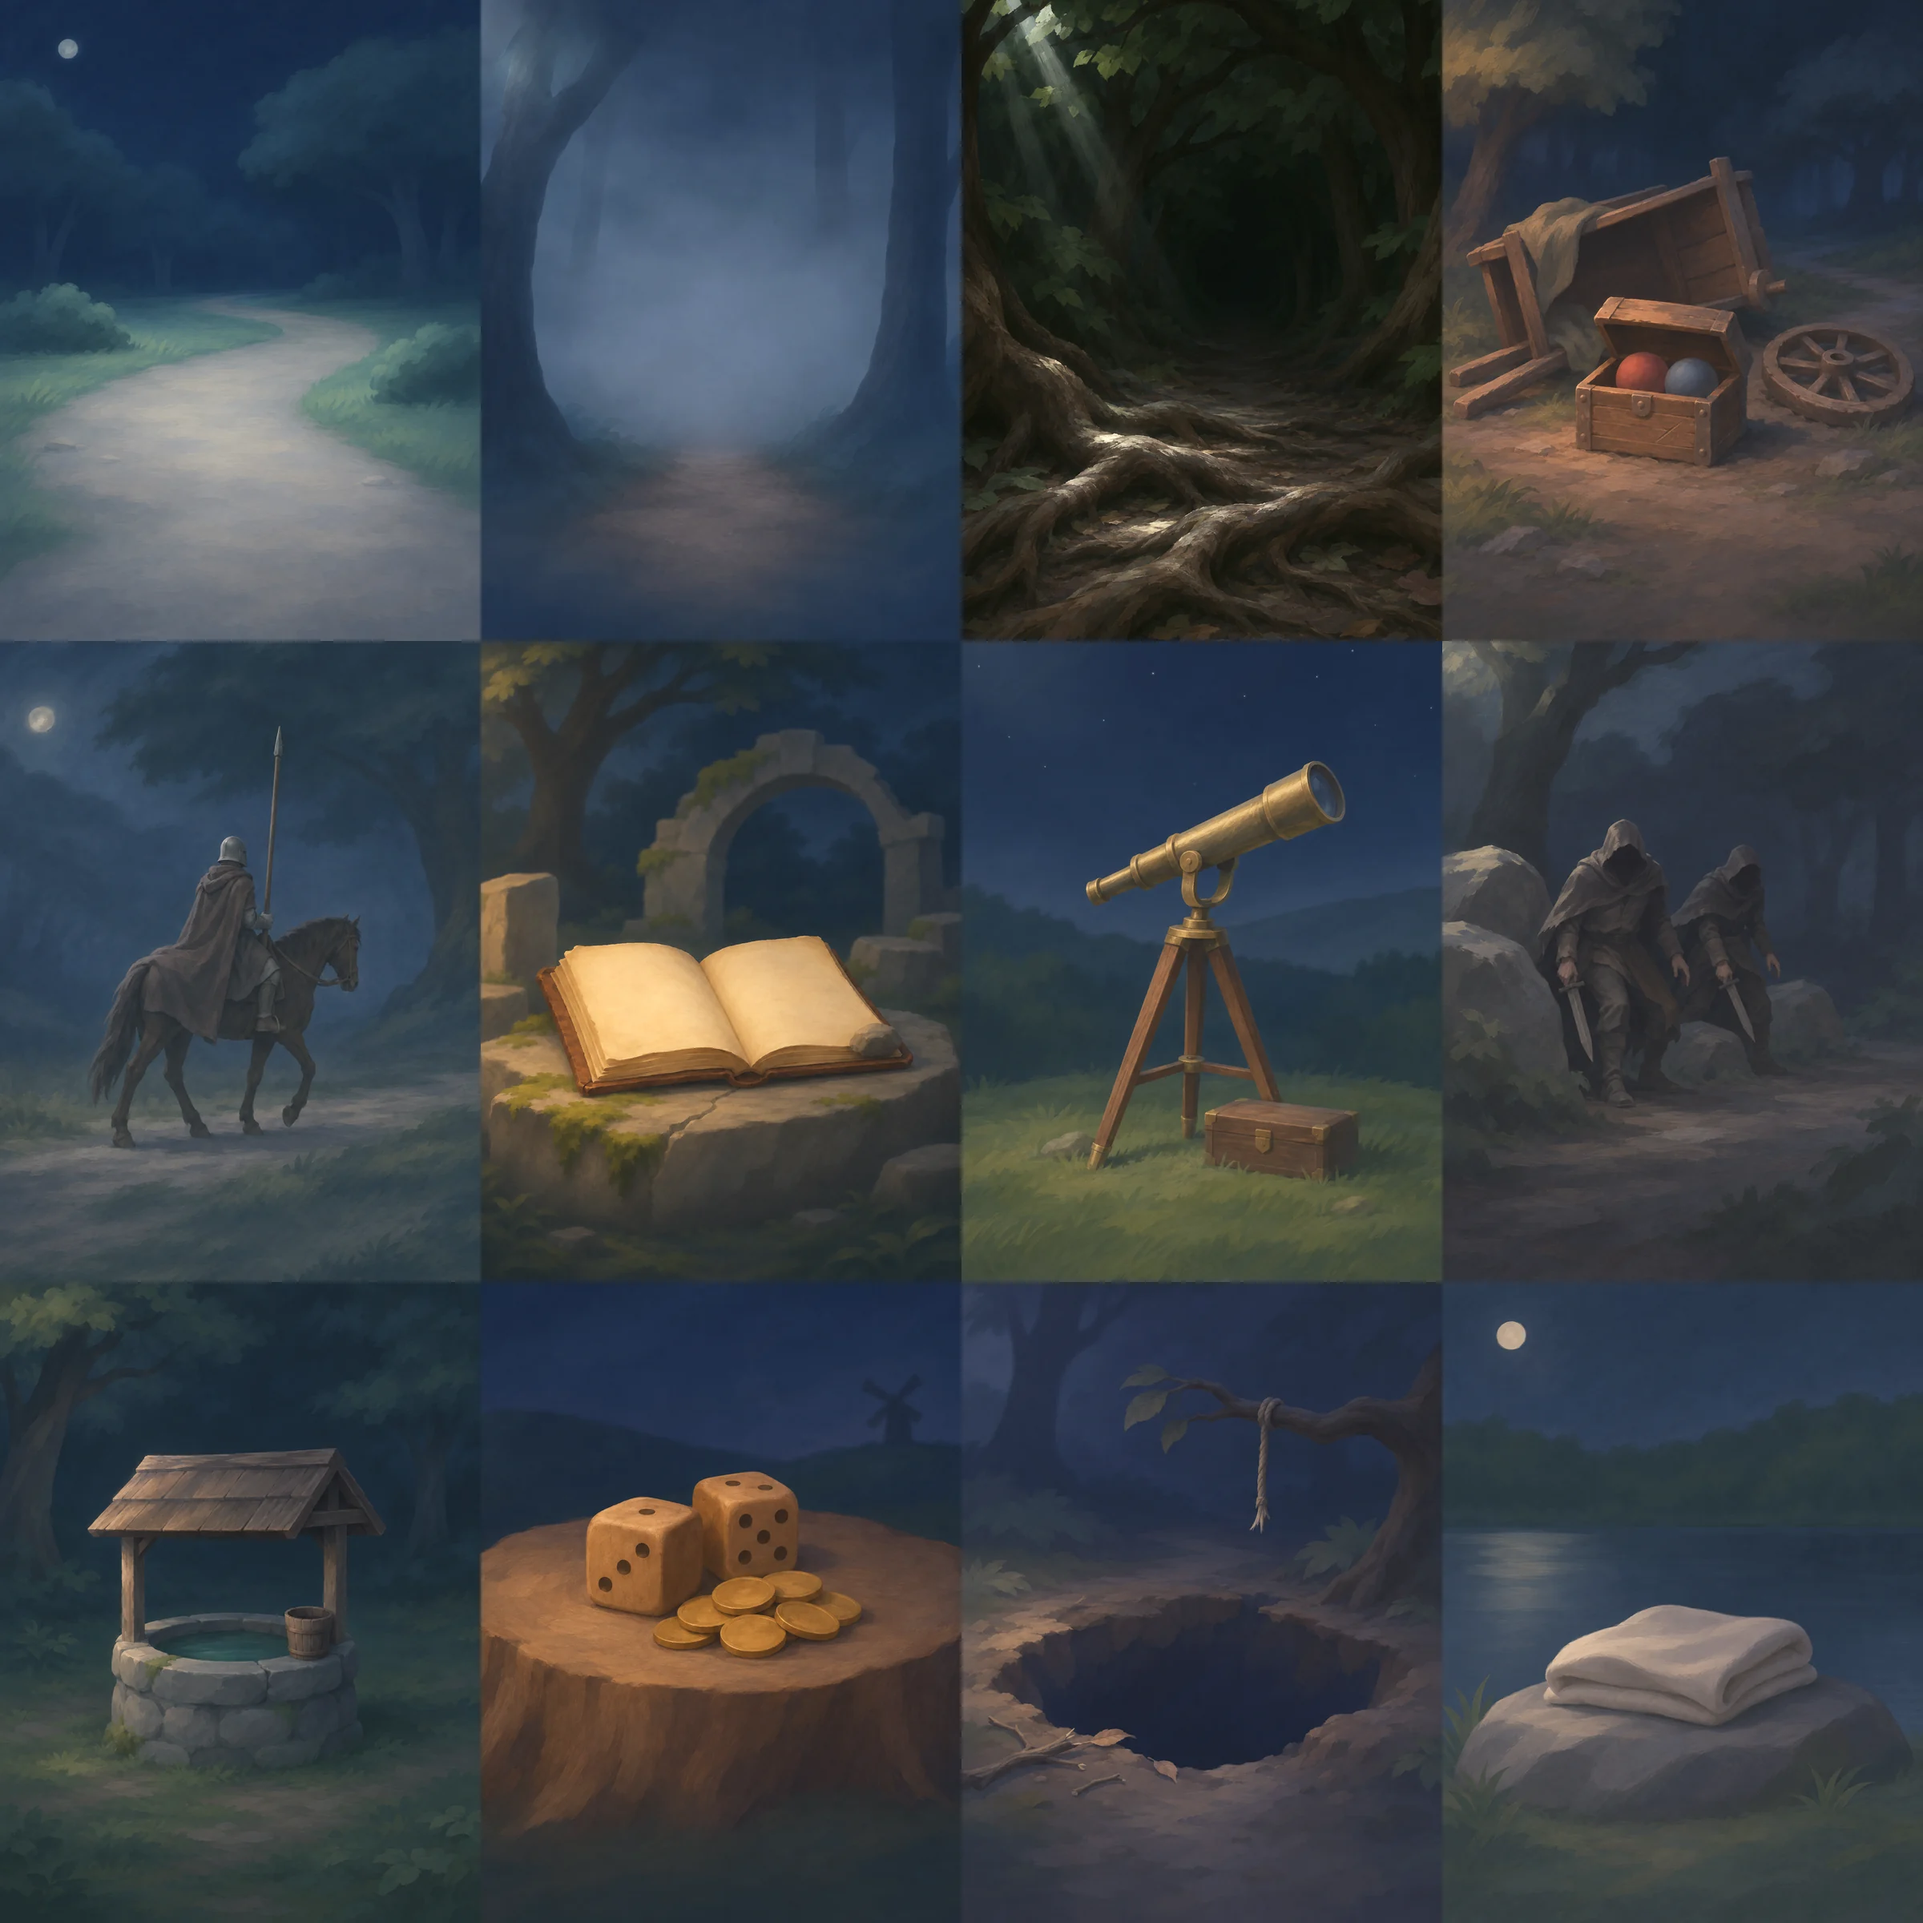
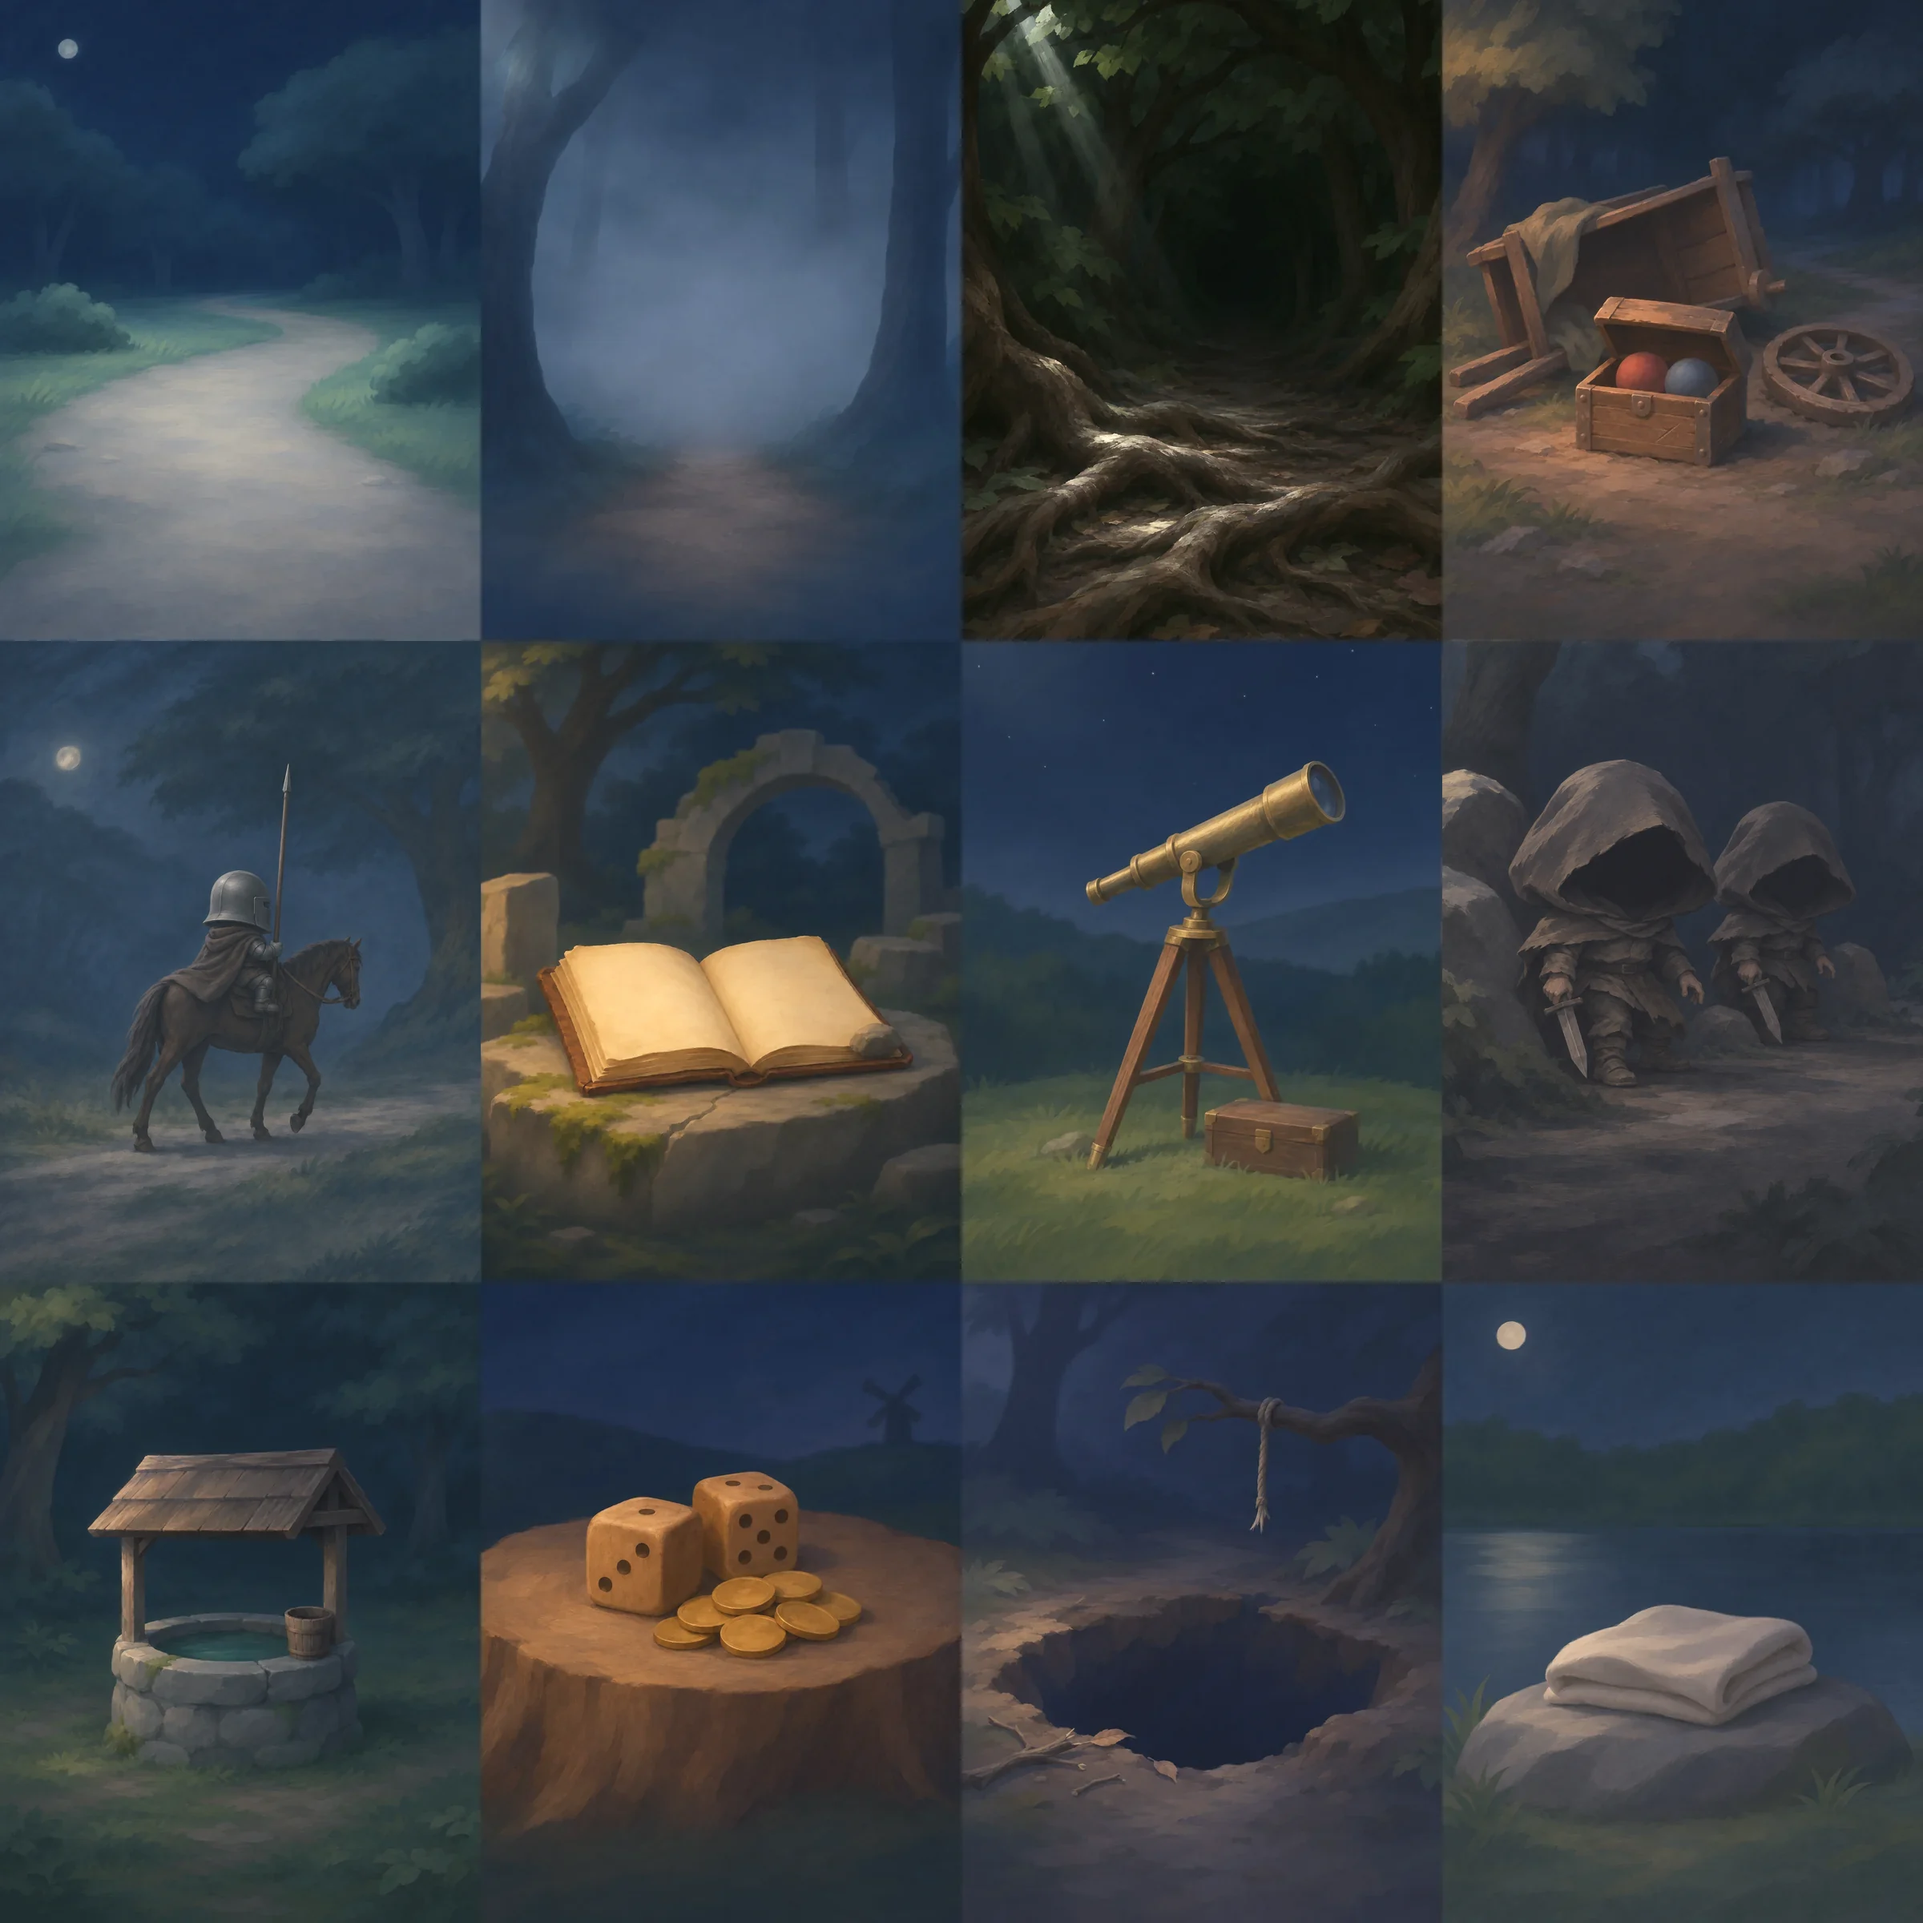
야영 그림 4장 교체 — 우리 신체 비율(SD)로 다시 그린 길 잃은 동료 · 떠나보내기 · 기사 · 산적
- rest_cards 칸 2(떠나보내기) · 6(길 잃은 동료), walk_cards 칸 4(기사) · 7(산적)
- 두 그림 시트에 캐시 쿼리 ?v=1110 (예전 그림이 남지 않게)

Claude-Session: https://claude.ai/code/session_01SWajAh6yH4HvqBMmhp8pj4

diff --git a/index.html b/index.html
@@ -6233,8 +6233,8 @@ body:has(#ov:not([hidden]) .rest) #midZone,body:has(#ov:not([hidden]) .rest) #ha
 .cpSt.off{filter:grayscale(.75) brightness(.55) drop-shadow(0 6px 8px #000b)}
 .cpSt.off.sel{filter:grayscale(.75) brightness(.7) drop-shadow(0 0 2cqw #ff8a6a99)}
 .cpArt,.cpWArt{position:absolute;left:11.8%;top:9.7%;width:74.6%;height:57.1%;overflow:hidden;border-radius:2px;background:#0a1020}
-.cpArt::before,.cpWArt::before{content:"";position:absolute;left:0;width:100%;top:50%;aspect-ratio:3/4;transform:translateY(-50%);background:url(assets/ui/rest/rest_cards.webp) var(--ax) var(--ay)/500% 200% no-repeat}
-.cpWArt::before{background:url(assets/ui/rest/walk_cards.webp) var(--ax) var(--ay)/400% 300% no-repeat}
+.cpArt::before,.cpWArt::before{content:"";position:absolute;left:0;width:100%;top:50%;aspect-ratio:3/4;transform:translateY(-50%);background:url(assets/ui/rest/rest_cards.webp?v=1110) var(--ax) var(--ay)/500% 200% no-repeat}
+.cpWArt::before{background:url(assets/ui/rest/walk_cards.webp?v=1110) var(--ax) var(--ay)/400% 300% no-repeat}
 .cpFr{position:absolute;inset:0;background:url(assets/ui/rest/rest_frames.webp) 0 0/200% 100% no-repeat;pointer-events:none}
 .cpSt.guest .cpFr,.cpFr.gold{background-position:100% 0}
 .cpSt.guest{animation:cpGuest 2.4s ease-in-out infinite}
@@ -8742,7 +8742,7 @@ function lmResetRecord(btn){
 .rb .lxIt .pic img{max-height:74px;max-width:88px;filter:drop-shadow(0 3px 3px #000a)}
 .rb .lxIt b{font-size:15px;color:var(--sun,#ffd36a);line-height:1.25;overflow-wrap:anywhere}
 .rb .lxIt small{font-size:13px;color:var(--soft);line-height:1.45;overflow-wrap:anywhere}
-.rb .lxIt .art{width:84px;aspect-ratio:3/4;border-radius:8px;border:2px solid #c9a24a;background:url(assets/ui/rest/rest_cards.webp) var(--ax) 0/500% 200% no-repeat;box-shadow:0 3px 6px #000a}
+.rb .lxIt .art{width:84px;aspect-ratio:3/4;border-radius:8px;border:2px solid #c9a24a;background:url(assets/ui/rest/rest_cards.webp?v=1110) var(--ax) 0/500% 200% no-repeat;box-shadow:0 3px 6px #000a}
 .rb .lxAw{display:flex;align-items:center;justify-content:center;gap:6px;margin:14px 0 6px}
 .rb .lxAw .cd.card.dz{width:min(20vw,84px)}
 .rb .lxAw .cd.card.dz.big{width:min(27vw,112px)}
